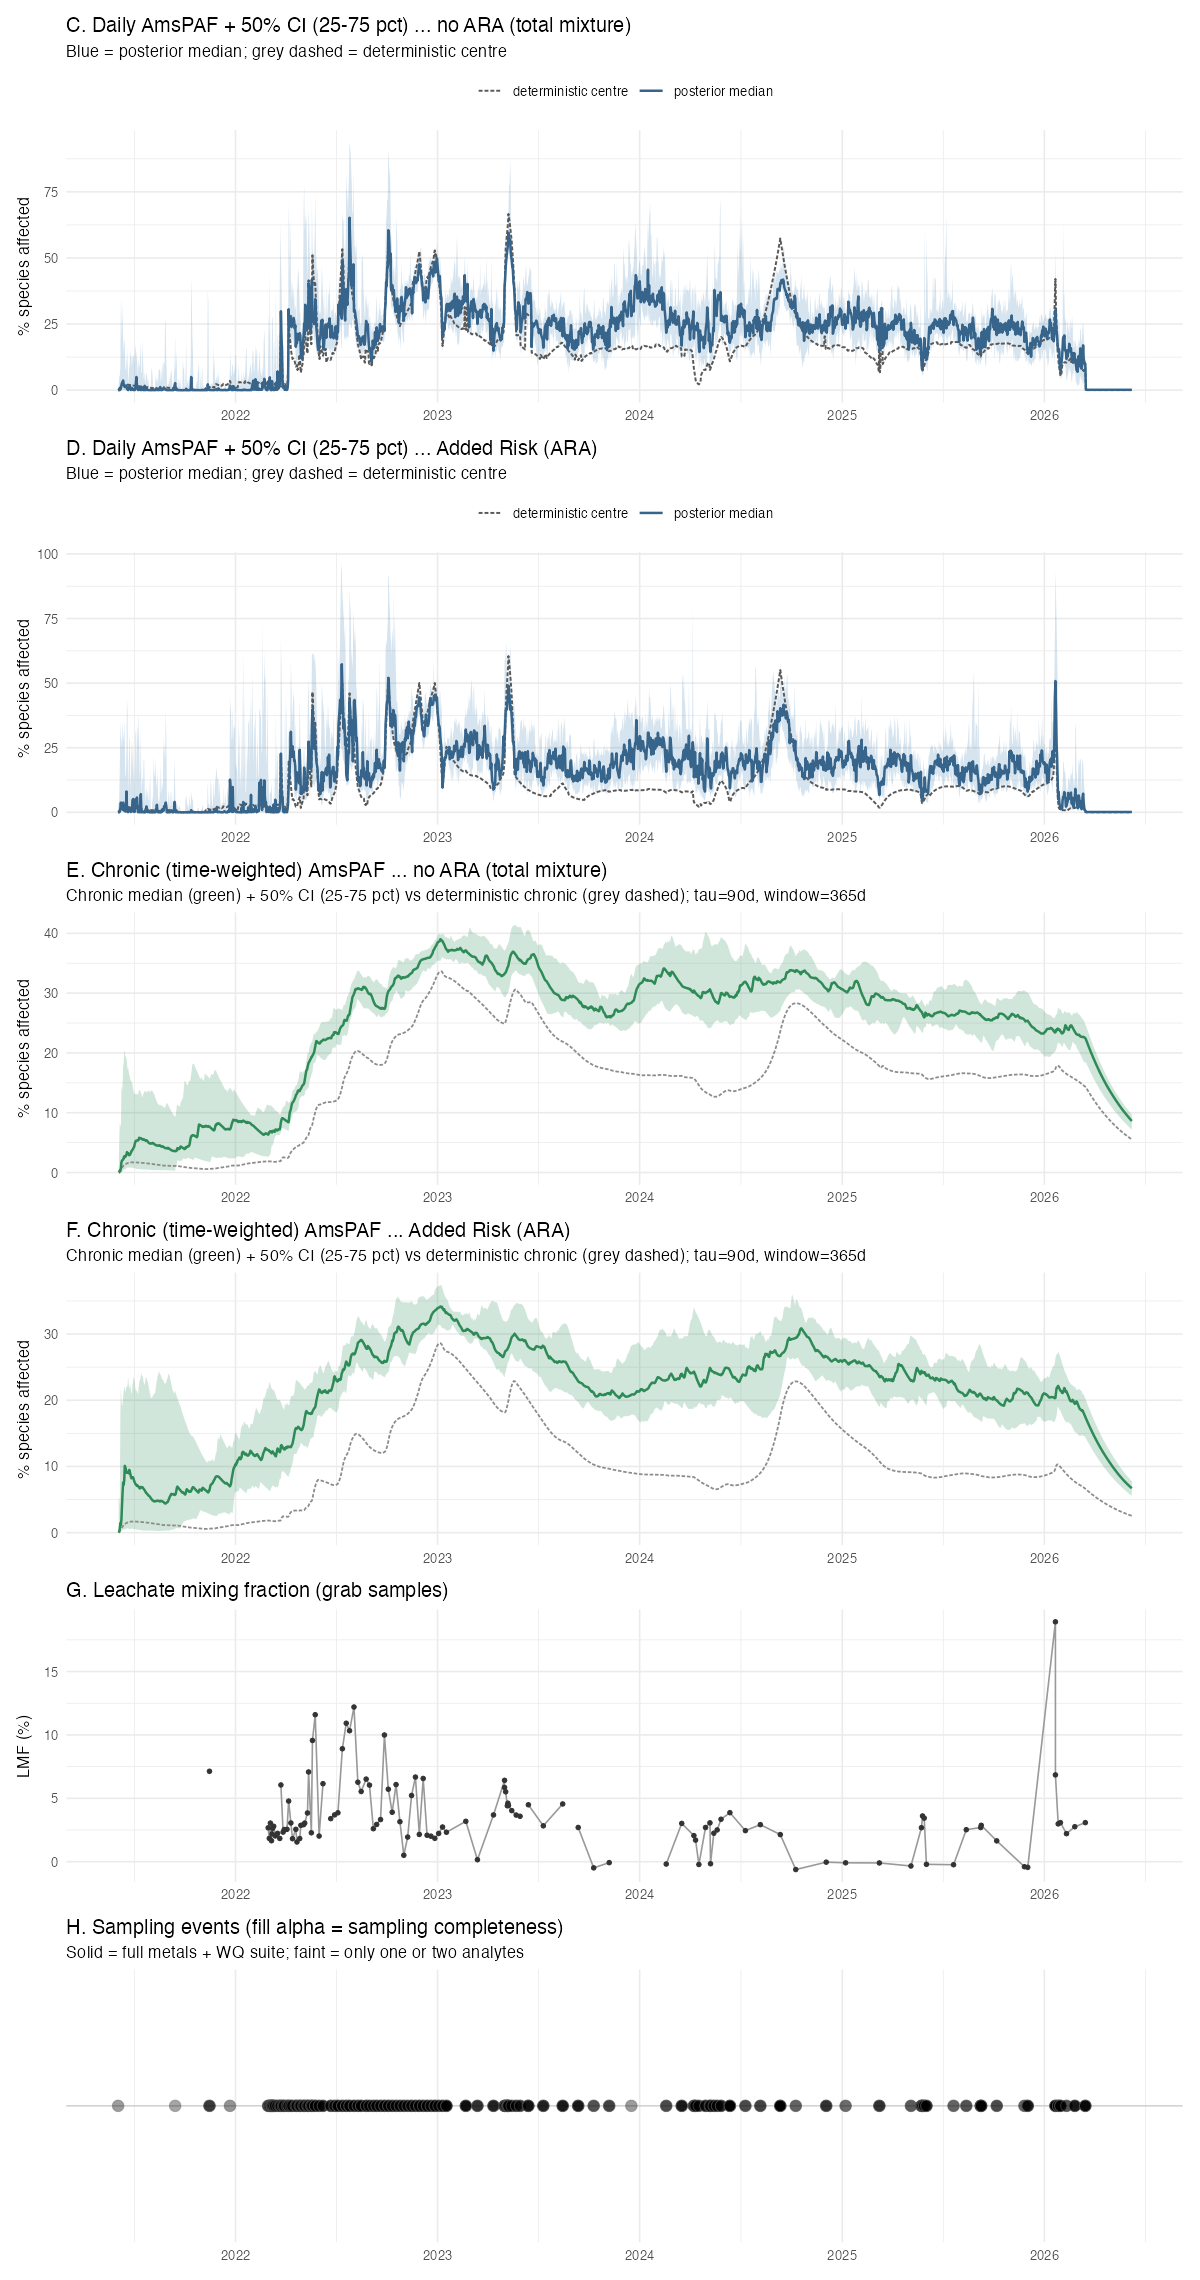
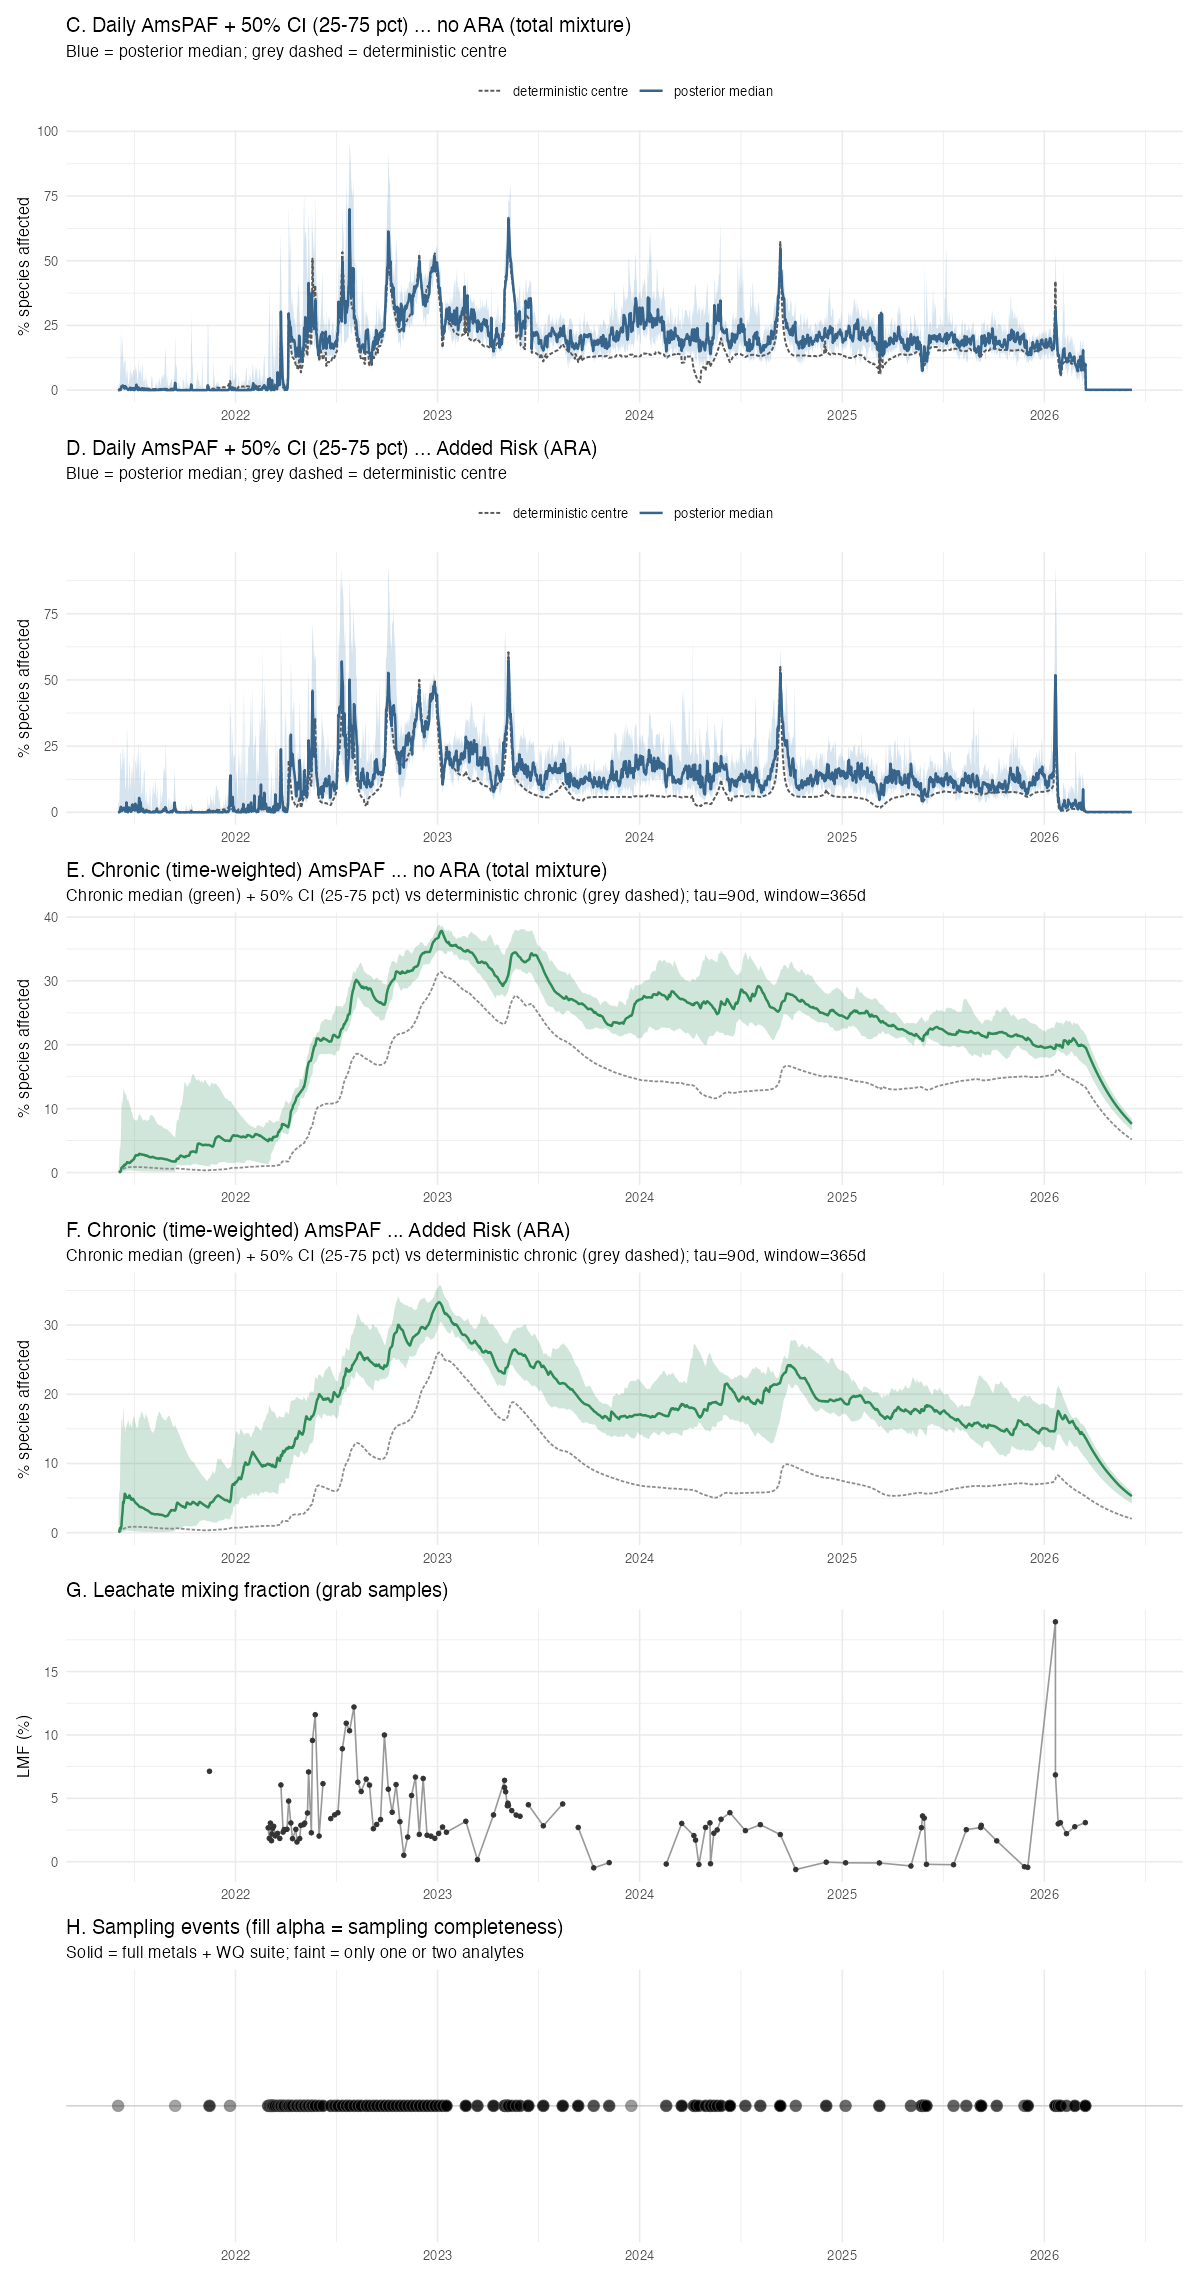
test(#15): accept transform snapshot (scale_c arg rename); after-asinh plot
Snapshot message updated for the .assert_pos_scale arg rename c -> scale_c.
Regenerate the B.S01 comparison plot under the asinh model. Full suite green
(898 pass / 0 fail / 6 pre-existing skips).

diff --git a/tests/testthat/_snaps/transform.md b/tests/testthat/_snaps/transform.md
@@ -4,7 +4,7 @@
       leachatetools:::.g_transform(1, 0)
     Condition
       Error in `.assert_pos_scale()`:
-      ! `c` must be a single positive number.
+      ! `scale_c` must be a single positive number.
 
 ---
 
@@ -12,5 +12,5 @@
       leachatetools:::.g_transform(1, -3)
     Condition
       Error in `.assert_pos_scale()`:
-      ! `c` must be a single positive number.
+      ! `scale_c` must be a single positive number.
 